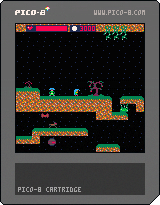
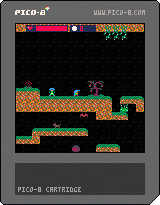
solved out of memory bug (corrected background item management); solved life bar overlap with shards bar; solved bgm music not restarting when respawning.

diff --git a/README.md b/README.md
@@ -65,6 +65,11 @@ The soundtrack features:
 The source code is available on [github] at https://github.com/Mizar01/last_spellcaster
 
 ## Log updates
+ - 1.0.3 (2026-06-07)
+   - Solved out of memory error due to bad assignment to some types of background tiles.
+   - solved the background music not restarting correctly when respawning
+   - Solved life bar overlapping with shards count
+   - Minor fixes
  - 1.0.2 (2026-05-30)
    - Minor fixes
    - Added all npc
